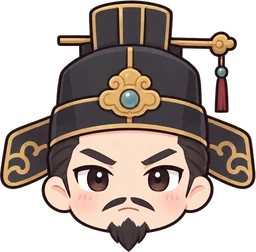
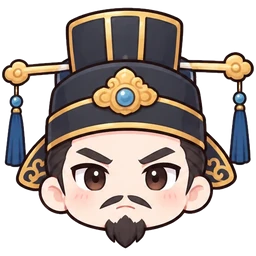
Improve oanquan

diff --git a/components/room/OAnQuanTable.tsx b/components/room/OAnQuanTable.tsx
@@ -8,7 +8,7 @@ import { ConfirmButton } from "../ConfirmButton";
 import { Score } from "./CaroTable";
 import { ChatPanel } from "./ChatPanel";
 import { CountdownCine, DrawCine, Duel, Fighter, Party, useCountdown, useEndScene, WinCine } from "./Cine";
-import { OAnQuanBoard, OAQ_TONE, QUAN_ART, SIDE_GEM, useSowing } from "./OAnQuanBoard";
+import { OAnQuanBoard, OAQ_TONE, quanArt, SIDE_GEM, useSowing } from "./OAnQuanBoard";
 import { PeoplePanel, SeatCard } from "./People";
 import { Flyers, RoomLayout, StatusChip } from "./RoomLayout";
 import { useFlyers, useRoomView } from "./useRoom";
@@ -80,7 +80,7 @@ export function OAnQuanTable({ id, slug, session }: { id: string; slug: string; 
       <ActionBar view={view} session={session} animating={!!frame} />
 
       <div className="relative mx-auto mt-4 max-w-[760px]">
-        {showGame && <Store board={board} p={above} seat={g!.lineup[above - 1]} me={view.me} />}
+        {showGame && <Store board={board} p={above} seat={g!.lineup[above - 1]} me={view.me} seed={g!.round} />}
         <div ref={boardRef} className="card my-2 overflow-hidden p-2 sm:p-3" style={{ background: "var(--sunken)" }}>
           <OAnQuanBoard
             board={board}
@@ -94,7 +94,7 @@ export function OAnQuanTable({ id, slug, session }: { id: string; slug: string; 
             onSow={(at, dir) => session.sow(at, dir)}
           />
         </div>
-        {showGame && <Store board={board} p={below} seat={g!.lineup[below - 1]} me={view.me} />}
+        {showGame && <Store board={board} p={below} seat={g!.lineup[below - 1]} me={view.me} seed={g!.round} />}
         <Flyers flyers={flyers} />
         {!showGame && m.status === "waiting" && (
           <div className="pointer-events-none absolute inset-0 grid place-items-center">
@@ -114,7 +114,7 @@ export function OAnQuanTable({ id, slug, session }: { id: string; slug: string; 
 }
 
 /** Kho quân đã ăn của một bên: số dân, số quan và tổng điểm. */
-function Store({ board, p, seat, me }: { board: Board; p: 1 | 2; seat?: SeatView; me: string }) {
+function Store({ board, p, seat, me, seed }: { board: Board; p: 1 | 2; seat?: SeatView; me: string; seed: number }) {
   const dan = board.got[p];
   const quans = board.quans[p];
   const name = seat?.uid === me ? "Bạn" : (seat?.member?.name ?? "Ai đó");
@@ -129,7 +129,7 @@ function Store({ board, p, seat, me }: { board: Board; p: 1 | 2; seat?: SeatView
           <Art src={SIDE_GEM[p]} size={18} /> {dan}
         </span>
         {([0, 1] as const).map((q) =>
-          board.quanBy[q] === p ? <Art key={q} src={QUAN_ART[q]} size={28} title={`Quan ${QUAN_VALUE} điểm`} /> : null,
+          board.quanBy[q] === p ? <Art key={q} src={quanArt(q, seed)} size={28} title={`Quan ${QUAN_VALUE} điểm`} /> : null,
         )}
         <b className="font-display text-lg text-ink">{dan + quans * QUAN_VALUE}đ</b>
       </span>

diff --git a/components/room/OAnQuanBoard.tsx b/components/room/OAnQuanBoard.tsx
@@ -30,8 +30,10 @@ export const OAQ_TONE = { 1: "var(--coral)", 2: "var(--sky)" } as const;
 const base = process.env.BASE_PATH ?? "";
 /** Quân dân: các viên ngọc cắt từ ảnh trong public/oanquan, mỗi viên chọn ngẫu nhiên (tất định theo ván, ô, thứ tự). */
 export const GEMS = ["red", "blue", "green", "yellow", "purple"].map((c) => `${base}/oanquan/gem-${c}.webp`);
-/** Quân quan: avatar ông quan — ô 0 là quan nghiêm, ô 6 là quan cười. */
-export const QUAN_ART = [`${base}/oanquan/quan-1.webp`, `${base}/oanquan/quan-2.webp`];
+/** Quân quan: 4 avatar (ông quan nghiêm, ông quan cười, bà quan, bà quan nháy mắt), mỗi ván đổi cặp. */
+const QUAN_ART = [1, 2, 3, 4].map((n) => `${base}/oanquan/quan-${n}.webp`);
+/** Avatar của quan `q` (0: ô 0, 1: ô 6) trong ván `seed` — xoay vòng theo ván, hai ô quan không bao giờ trùng mặt. */
+export const quanArt = (q: 0 | 1, seed: number) => QUAN_ART[(seed + q) % QUAN_ART.length];
 /** Viên ngọc đại diện cho từng bên (ứng màu bên: đỏ / xanh). */
 export const SIDE_GEM = { 1: GEMS[0], 2: GEMS[1] } as const;
 const GOLDEN = 2.399963;
@@ -103,8 +105,8 @@ function Pebbles({ i, n, x, y, quan, seed }: { i: number; n: number; x: number; 
 
 const QUAN_SIZE = 78;
 
-function QuanStone({ i, x, y }: { i: number; x: number; y: number }) {
-  return <image href={QUAN_ART[i === 0 ? 0 : 1]} x={x - QUAN_SIZE / 2} y={y - QUAN_SIZE / 2 - 8} width={QUAN_SIZE} height={QUAN_SIZE} className="oaq-quan" />;
+function QuanStone({ i, x, y, seed }: { i: number; x: number; y: number; seed: number }) {
+  return <image href={quanArt(i === 0 ? 0 : 1, seed)} x={x - QUAN_SIZE / 2} y={y - QUAN_SIZE / 2 - 8} width={QUAN_SIZE} height={QUAN_SIZE} className="oaq-quan" />;
 }
 
 /** Ô dân / ô quan (hình nền + viền), không gồm quân. */
@@ -211,7 +213,7 @@ export const OAnQuanBoard = memo(function OAnQuanBoard({
   opts: OaqOptions;
   /** Bên của người xem: 2 thì lật bàn cho dãy 7–11 nằm dưới. */
   side: 0 | 1 | 2;
-  /** Hạt giống chọn màu ngọc (số ván) — mỗi ván một kiểu rải màu. */
+  /** Hạt giống chọn màu ngọc và avatar quan (số ván) — mỗi ván một kiểu. */
   seed: number;
   /** Đang trong ván: vạch màu báo bên tới lượt. */
   live: boolean;
@@ -245,7 +247,7 @@ export const OAnQuanBoard = memo(function OAnQuanBoard({
     stones.push(
       <g key={i}>
         <Pebbles i={i} n={board.dan[i]} x={s.x} y={s.y} quan={quan} seed={seed} />
-        {quan && hasQuan(board, i) && <QuanStone i={i} x={s.x} y={s.y} />}
+        {quan && hasQuan(board, i) && <QuanStone i={i} x={s.x} y={s.y} seed={seed} />}
         <CountTag s={s} n={board.dan[i]} />
         {quan && opts.quanNon && isQuanNon(board, i) && (
           <text x={s.x} y={s.y + 66} textAnchor="middle" className="oaq-non">
